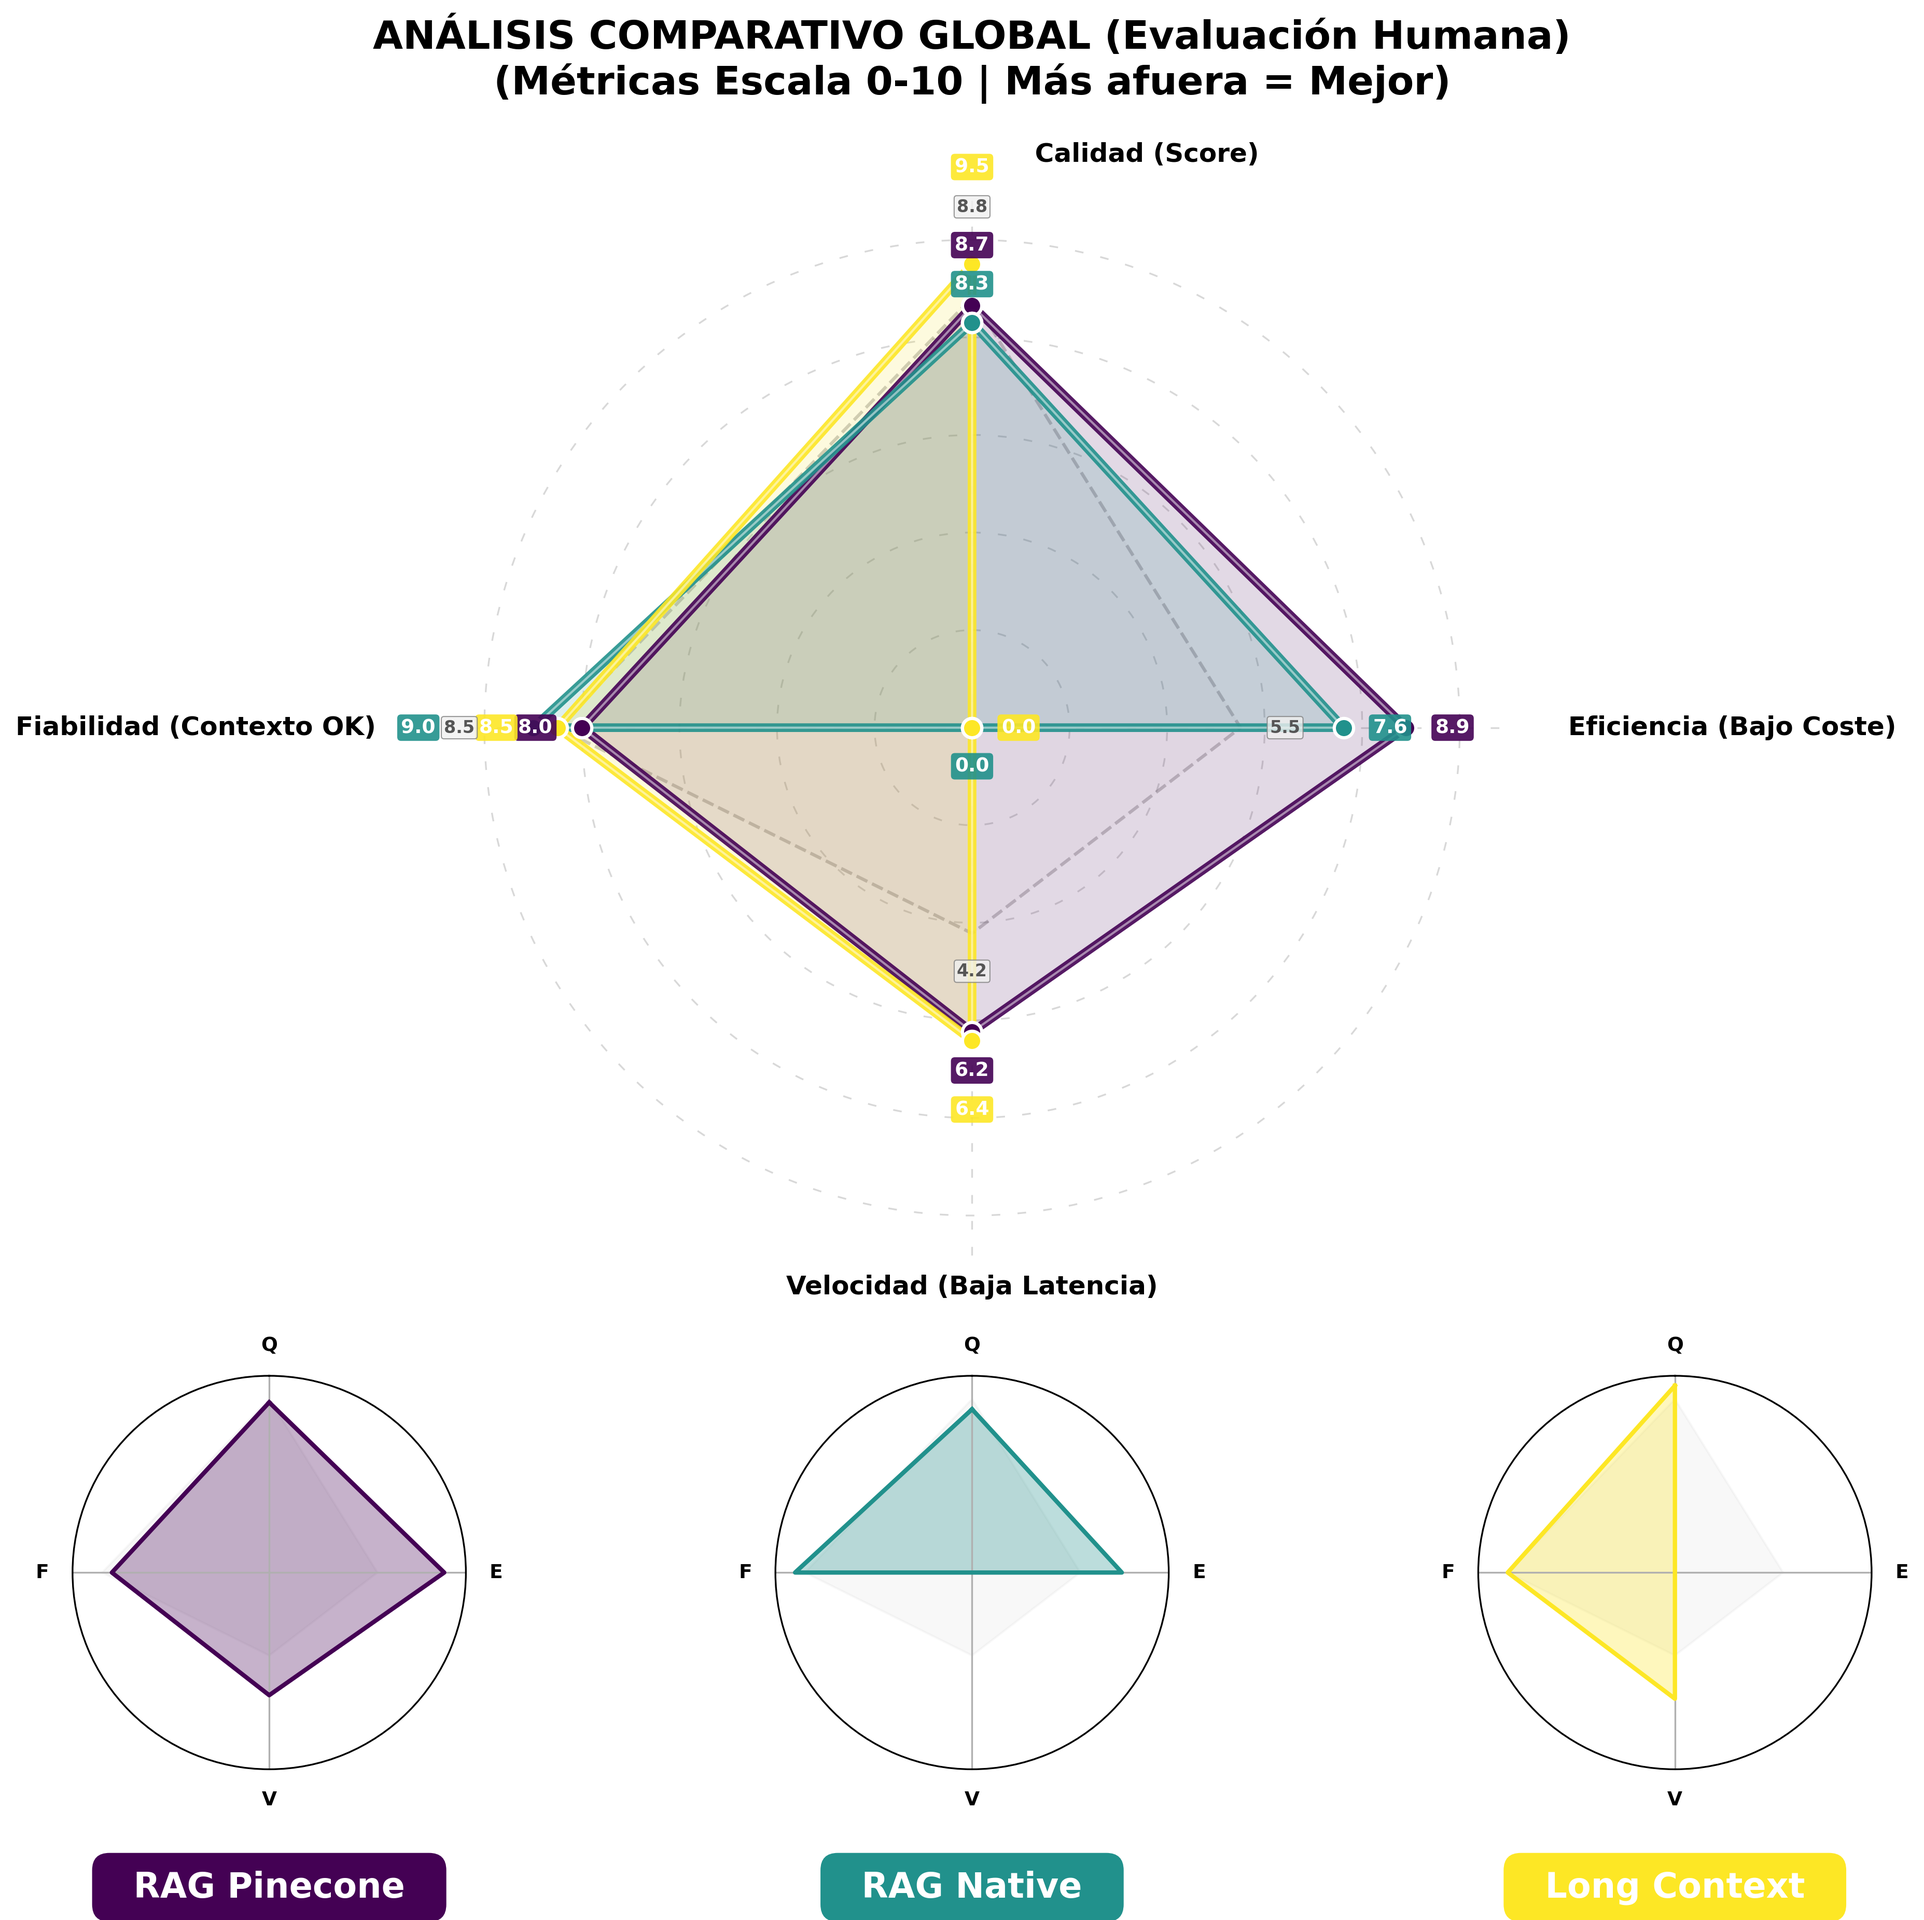
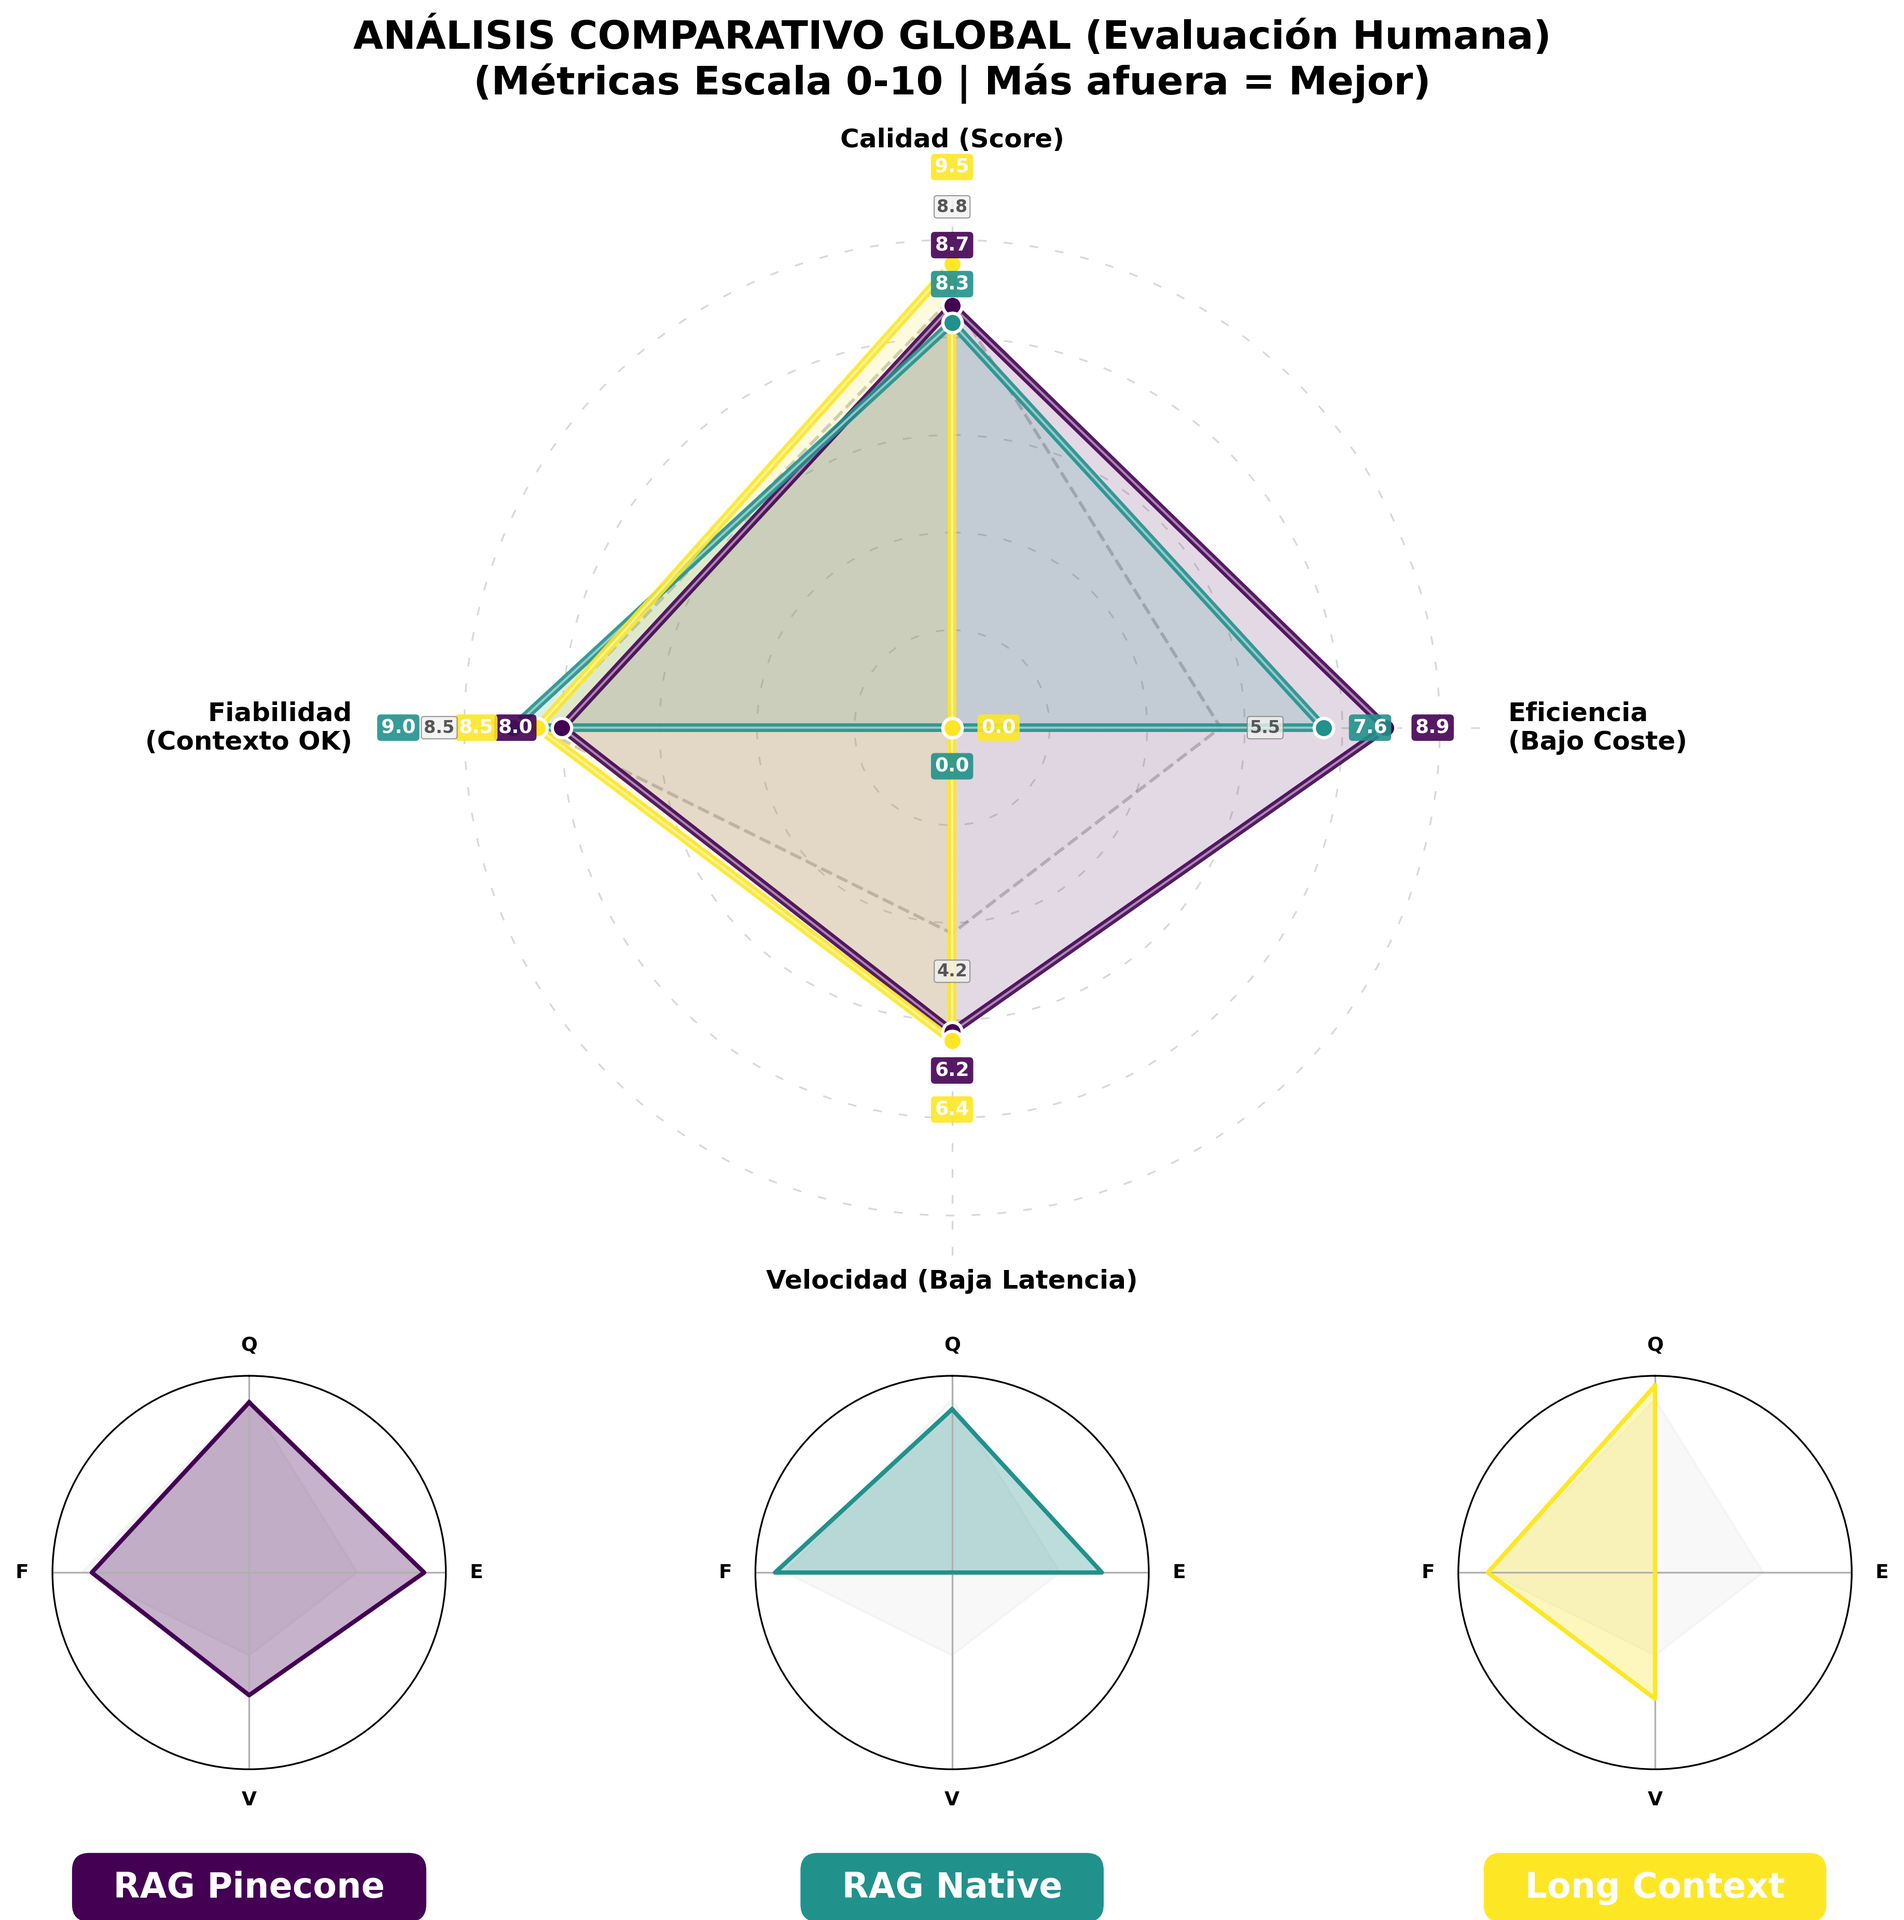
Últimos detalles y ajustes en gráficas

diff --git a/generar_graficas.py b/generar_graficas.py
@@ -352,10 +352,10 @@ def grafica_comparativa_arquitecturas(df1, df2, df3, is_judge=False):
     label_dist = 11.3
     for j, (angle, label) in enumerate(zip(angulos[:-1], categorias)):
         ha, va, curr_dist = 'center', 'center', label_dist
-        if "Calidad" in label: final_text, ha, va, curr_dist = "       " + label.replace("\n", " "), 'left', 'bottom', label_dist + 0.2
-        elif "Eficiencia" in label: final_text, ha, va = "     " + label.replace("\n", " "), 'left', 'center'
-        elif "Fiabilidad" in label: final_text, ha, va = label.replace("\n", " ") + "     ", 'right', 'center'
-        elif "Velocidad" in label: final_text, ha, va, curr_dist = label.replace("\n", " "), 'center', 'top', label_dist - 0.1
+        if "Calidad" in label: final_text, ha, va, curr_dist = label.replace("\n", " "), 'center', 'bottom', label_dist + 0.5
+        elif "Eficiencia" in label: final_text, ha, va, curr_dist = label, 'left', 'center', label_dist + 0.1
+        elif "Fiabilidad" in label: final_text, ha, va, curr_dist = label, 'right', 'center', label_dist + 1
+        elif "Velocidad" in label: final_text, ha, va, curr_dist = label.replace("\n", " "), 'center', 'bottom', label_dist + 0.3
         ax_main.text(angle, curr_dist, final_text, ha=ha, va=va, fontsize=12, fontweight='bold', color='black')
 
     ax_main.set_theta_offset(np.pi / 2)
